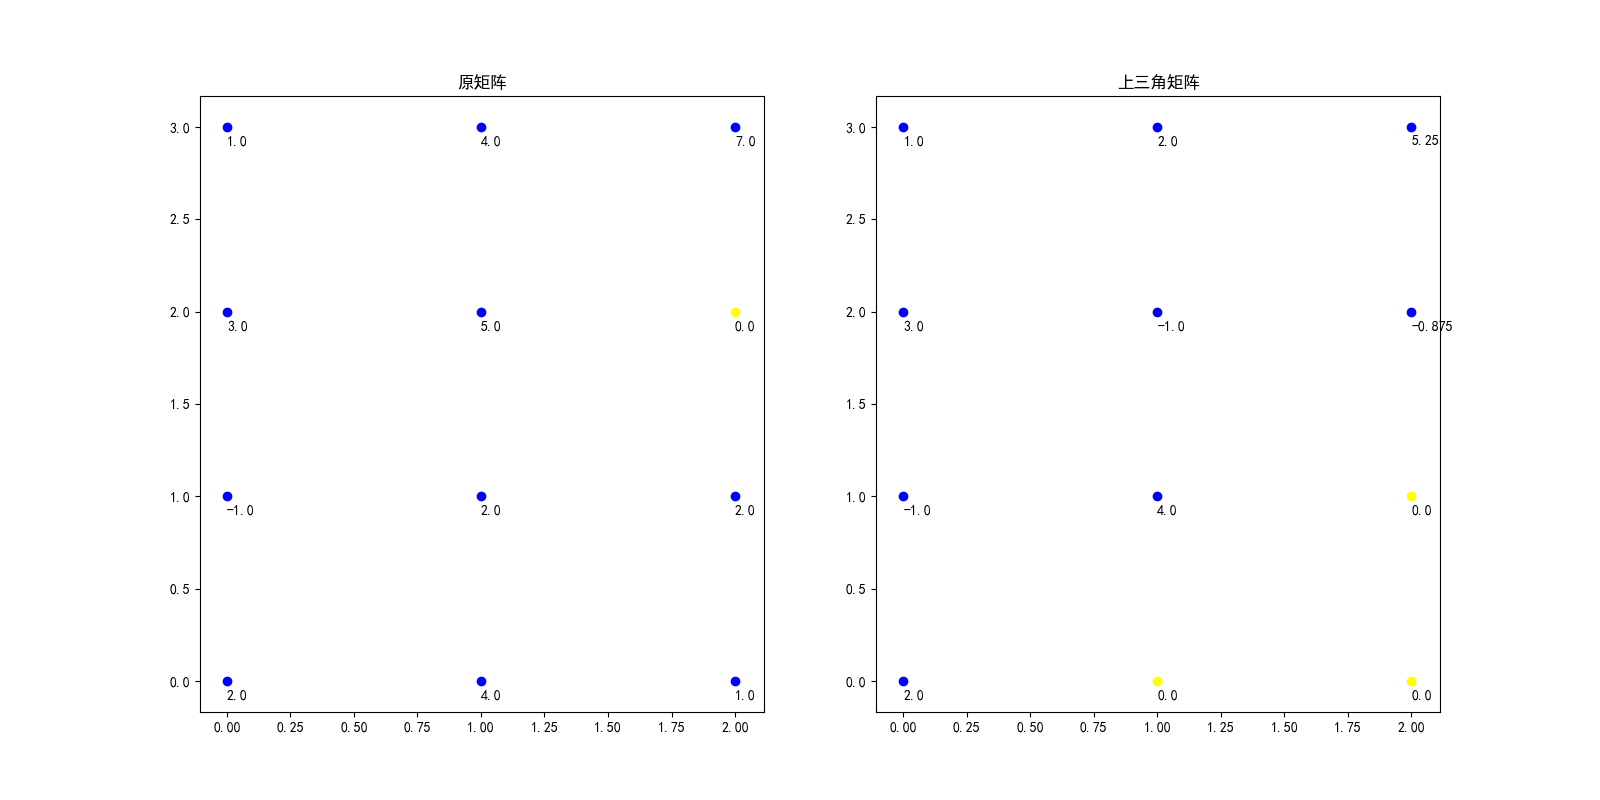
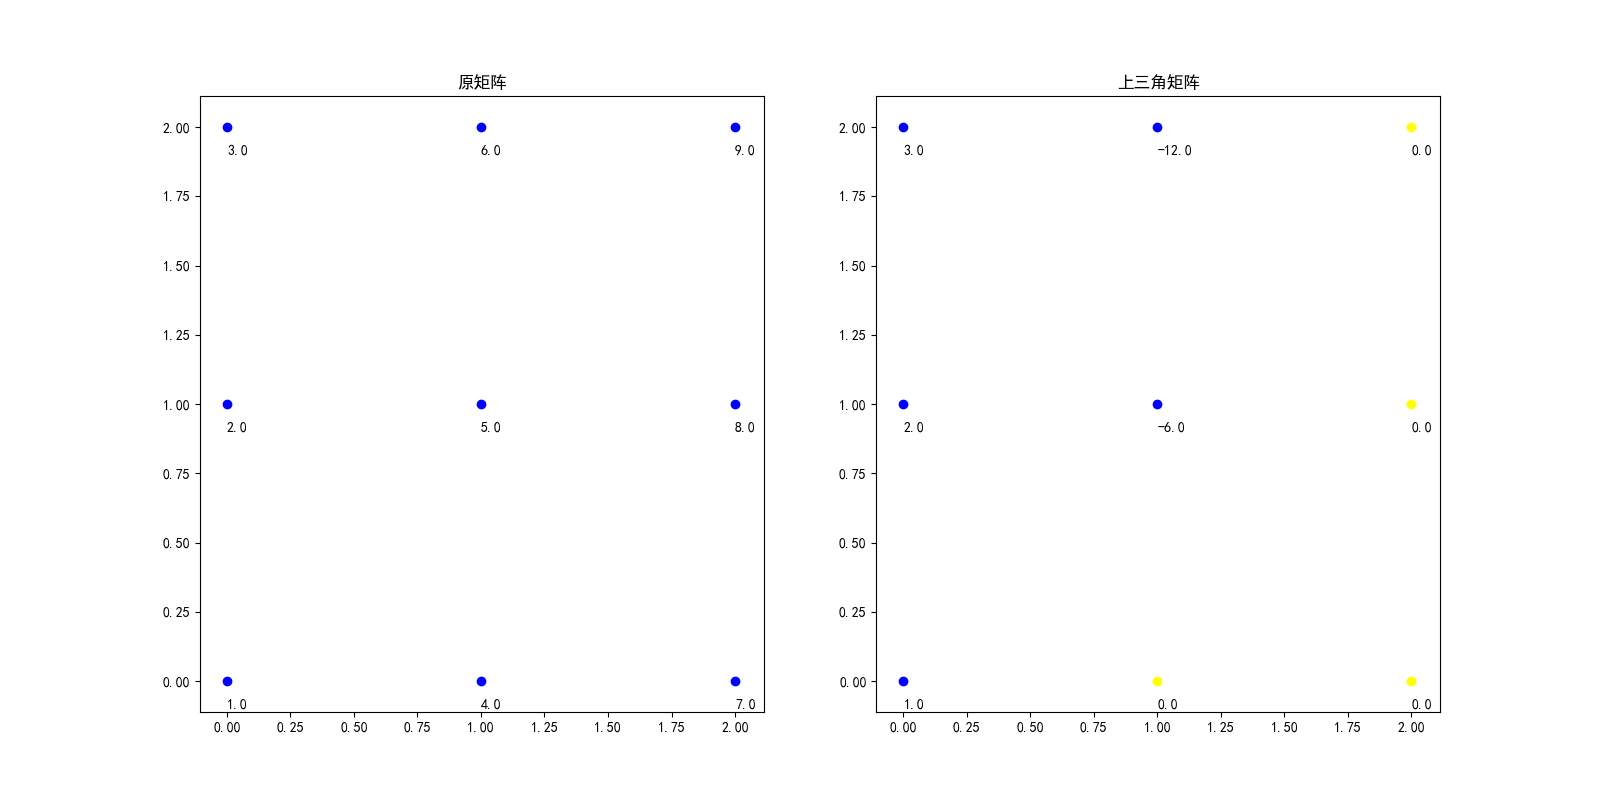
增加解求精策略的交换主元

diff --git a/第八次作业/gausselimination.py b/第八次作业/gausselimination.py
@@ -40,6 +40,10 @@ class GausseLimination:
             X[n:m]=0
 
         for i in range(1, N):
+            #增加主元的比较与交换
+            for k in range(i, N):
+                if X[k, i-1] > X[i-1, i-1]:
+                    X[i], X[k] = X[k], X[i]
             for j in range(i, N):
                 try:
                     c = X[j, i-1]/X[i-1, i-1]
@@ -76,5 +80,12 @@ if __name__ == '__main__':
     n = 4
     g = GausseLimination()
     g.run(x, m, n)
+    print(g)
     print(g.X_)
     print(g.X)
+
+    x = [i for i in range(1,10)]
+    m = 3
+    n = 3
+    g.run(x, m, n)
+    print(g)

diff --git a/第八次作业/README.md b/第八次作业/README.md
@@ -18,3 +18,5 @@ for i in range(1, N):
 **详细代码[点这里](./gausselimination.py)**
 ### 效果图
 ![](./g.png)
+
+**增加了交换主元**
